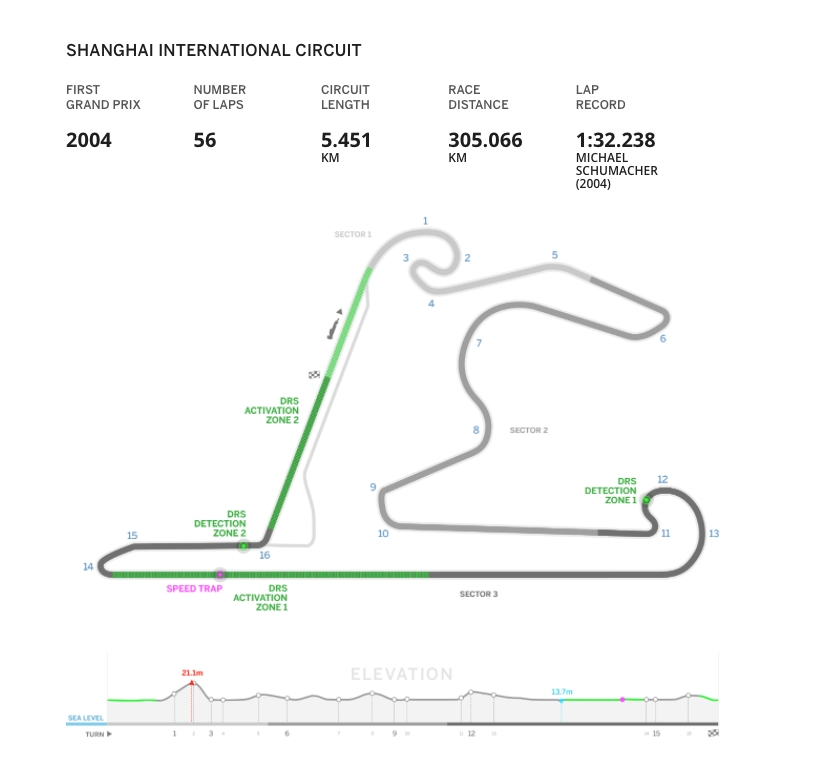
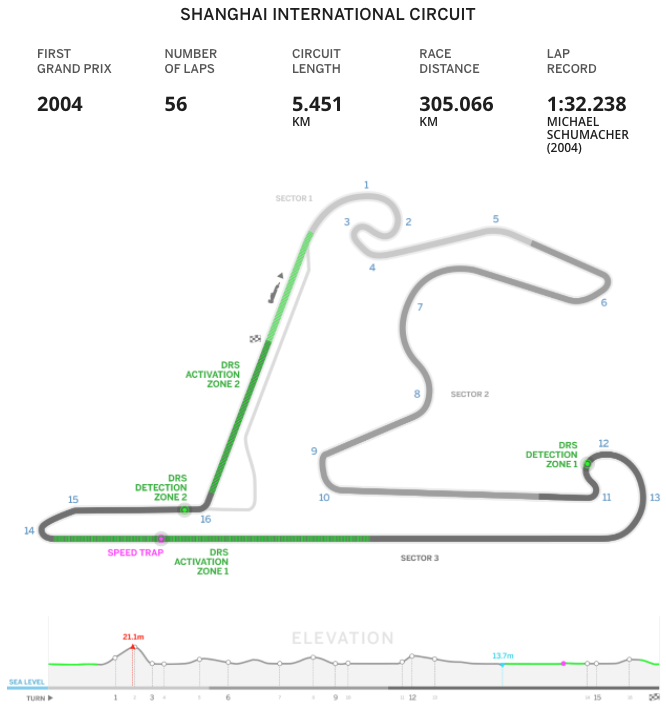
Completed displayCircuit function and edited track layout images for races 1 -6 #4

diff --git a/public/main.js b/public/main.js
@@ -2,12 +2,17 @@
 
 const $driverQualify = document.querySelector('.driver-listing-qualify')
 const $driverFinish = document.querySelector('.driver-listing-finish')
+const $circuitLayout = document.querySelector('.circuit-image')
 const $roundSelection = document.querySelector('#race-dropdown')
 $roundSelection.addEventListener('change', () => {
   changeRound($roundSelection.value)
 })
+$roundSelection.addEventListener('change', () => {
+  displayCircuit($roundSelection.value)
+})
 
 changeRound(1)
+displayCircuit('1')
 
 function renderDriverQualify({ Constructor, Driver, Q1, Q2, Q3, position }) {
   const $driver = document.createElement('div')
@@ -132,19 +137,25 @@ function renderDriverFinish({
   return $driver
 }
 
-function renderCircutImage({ Circuit, date, raceName, round, season }) {
-  const $circuit = document.createElement('div')
-  $driver.setAttribute('class', 'circuit-image')
-  const $circuitImage = document.createElement('img')
-  $circuitImage.src =
-    'images/cars/F1' +
-    '_' +
-    Constructor.constructorId +
-    '-' +
-    Driver.familyName +
-    '-' +
-    Driver.permanentNumber +
-    '.png'
+function displayCircuit(circuitSelect) {
+  const image = document.createElement('img')
+  switch (circuitSelect) {
+    case '1':
+      image.src = 'images/circuits/1-Australia.png'
+      break
+    case '2':
+      image.src = 'images/circuits/2-China.png'
+      break
+    case '3':
+      image.src = 'images/circuits/3-Bahrain.png'
+      break
+    default:
+      alert('Please select a circuit')
+  }
+  const $circuitImage = document.querySelector('.circuit-image')
+  $circuitImage.innerHTML = ''
+  $circuitImage.appendChild(image)
+}
 
 function changeRound(roundNumber) {
   qualify(roundNumber)
@@ -181,6 +192,7 @@ function finish(roundNumber) {
     response
       .json()
       .then(driverResolve => {
+        //console.log(driverResolve)
         const driverData = driverResolve.MRData.RaceTable.Races[0].Results
         const renderDrivers = driverData.map(driver => {
           return renderDriverFinish(driver)

diff --git a/public/index.html b/public/index.html
@@ -50,11 +50,10 @@
     </div>
   </section>
 
-  <!-- <section>
+  <section>
     <div class="circuit-image column is-6">
-      <img src="images/circuits/Australia_track.png" alt="Australia track layout"/>
     </div>
-  </section> -->
+  </section>
 
 <div id="title-bar">
   <div class="columns">
